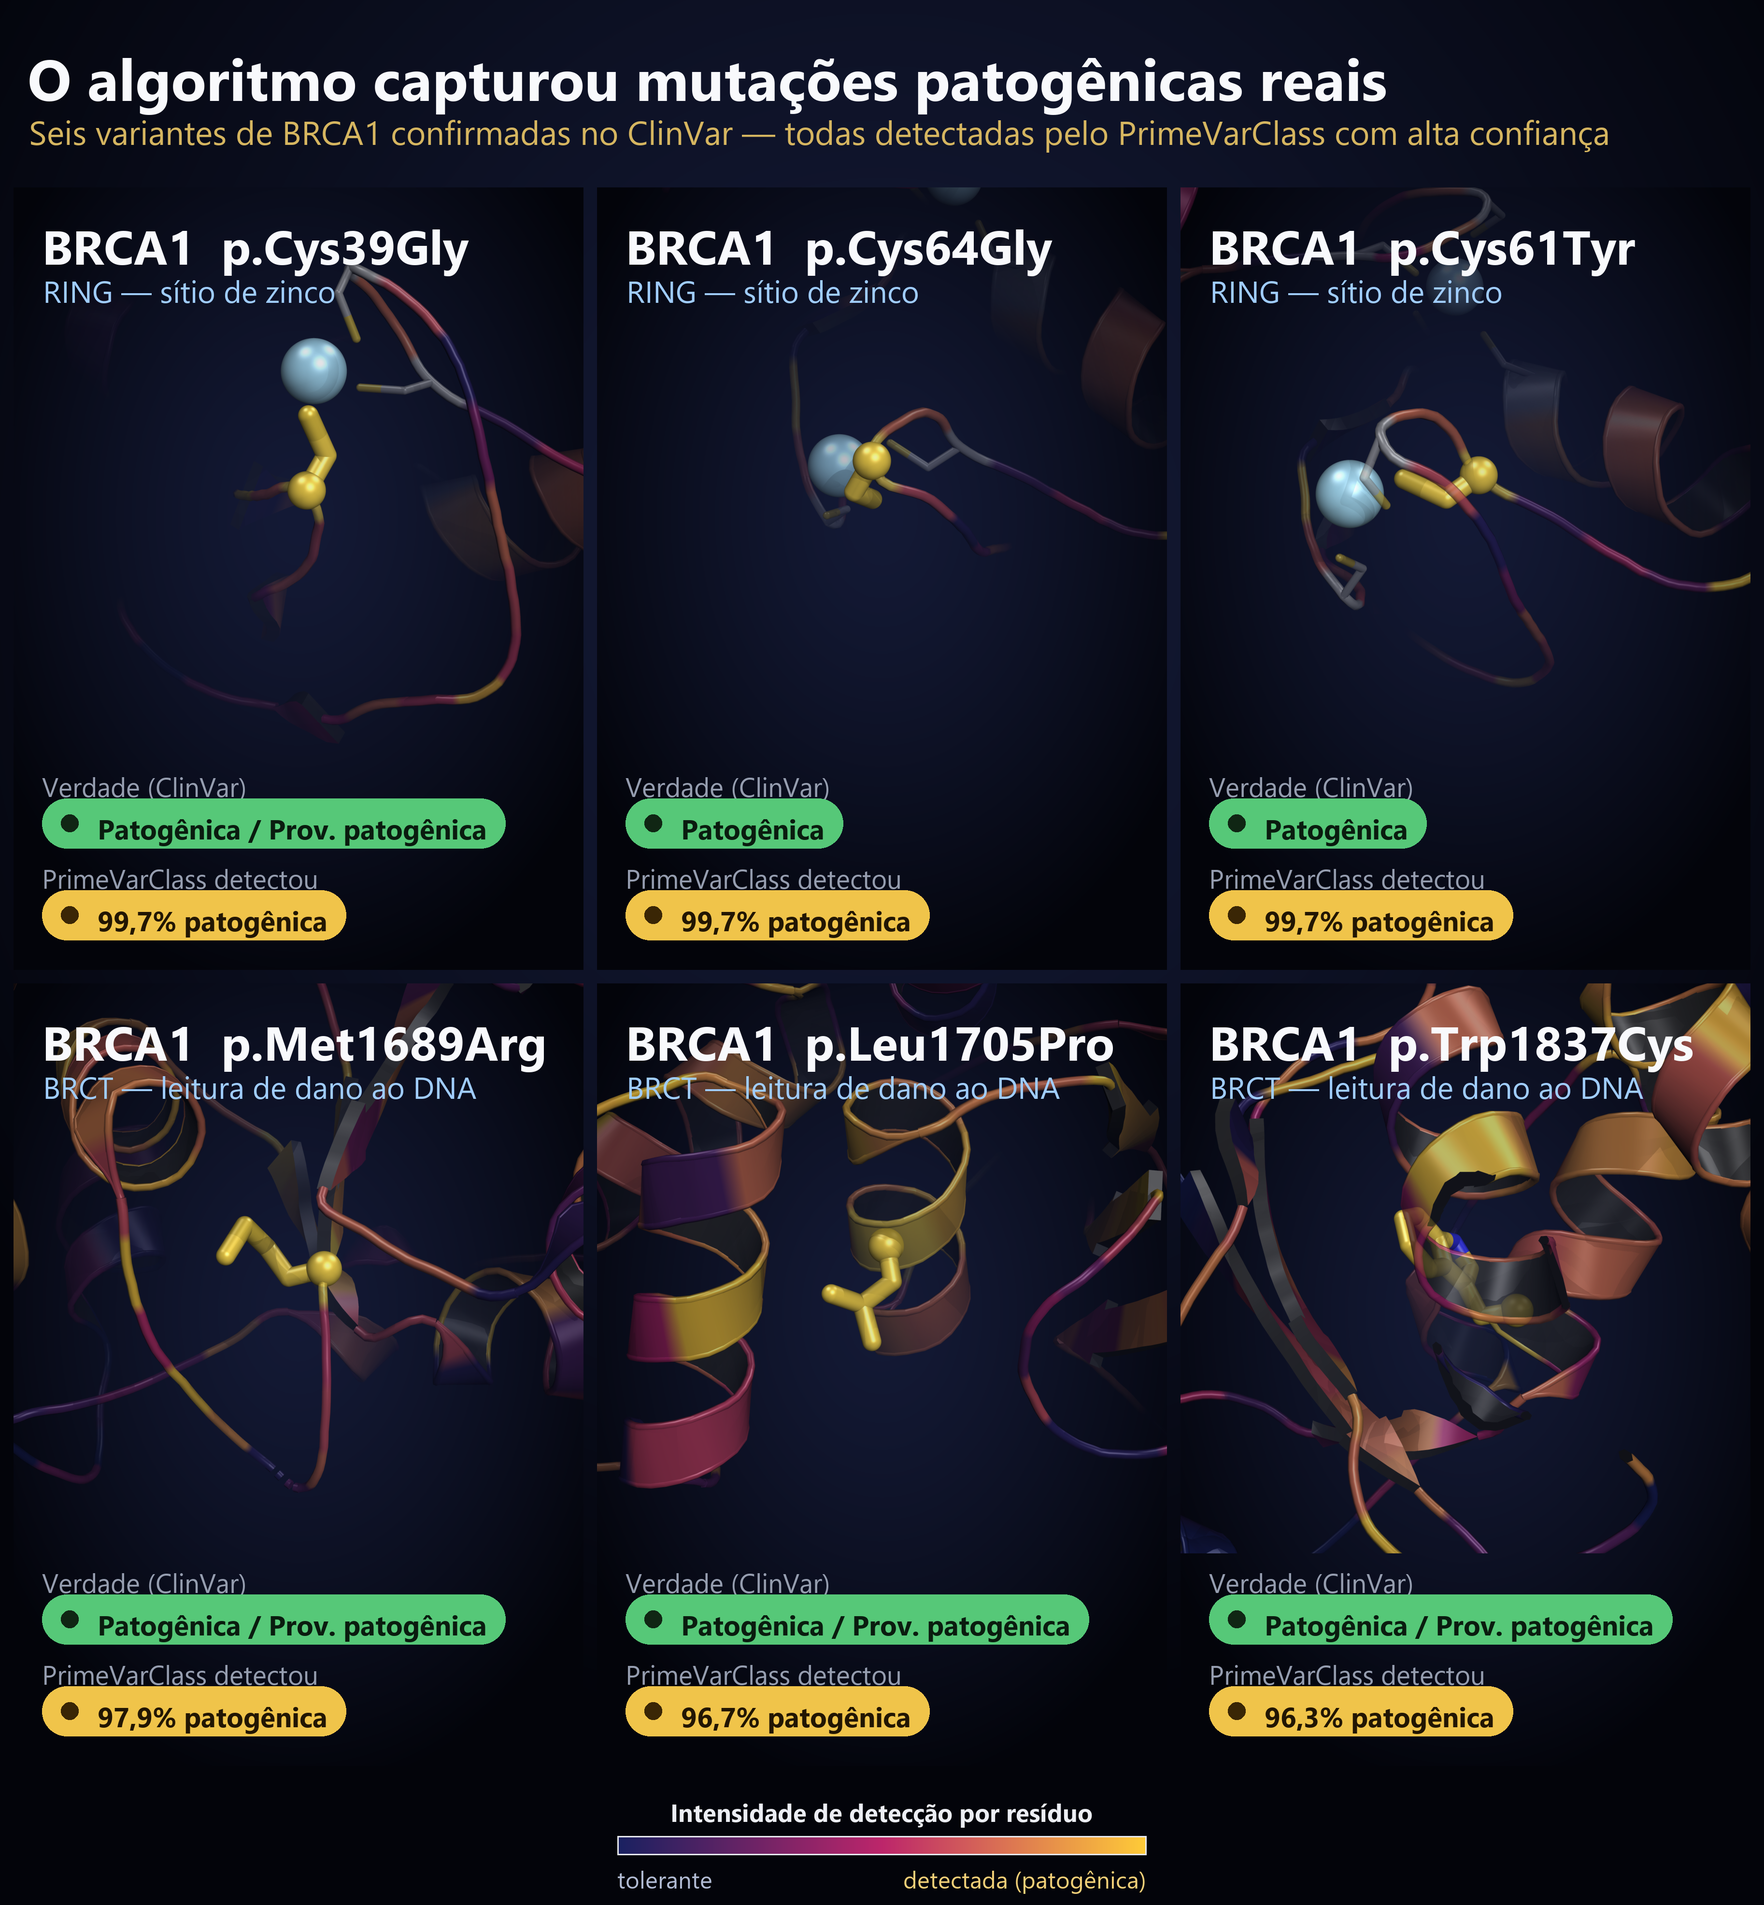
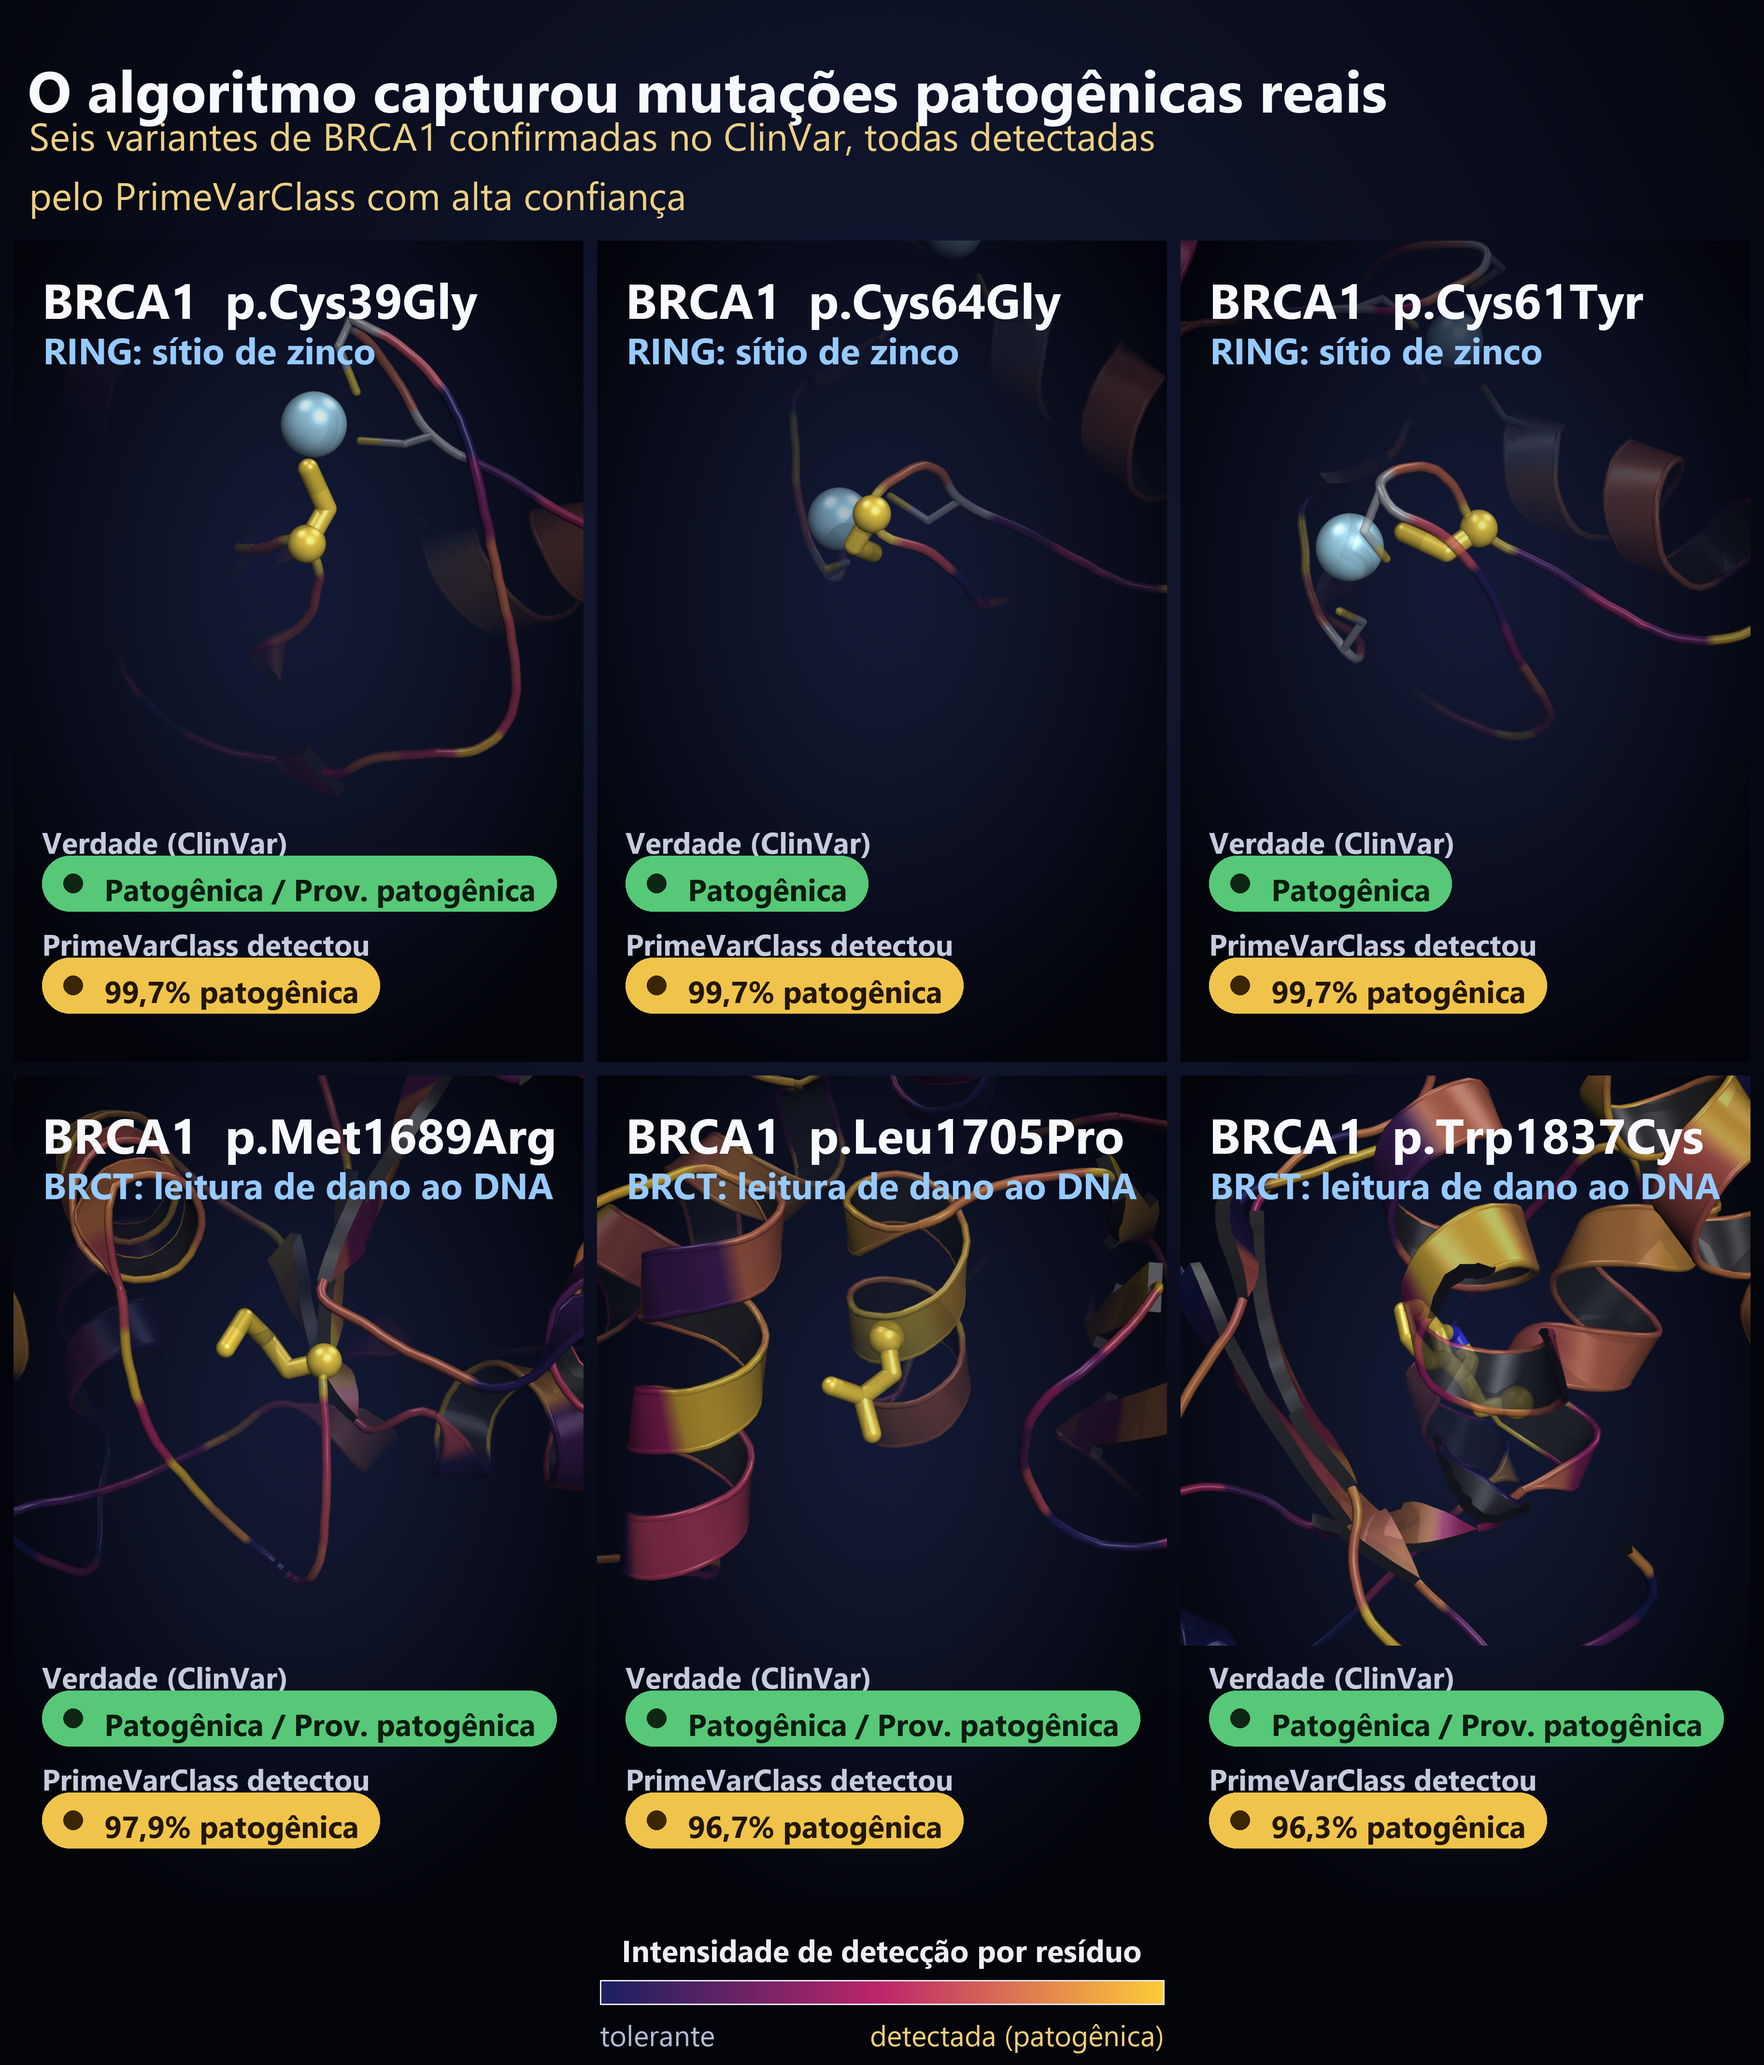
style(figura3): rotulos maiores e legiveis no painel de seis variantes
Os rotulos secundarios (subtitulo de dominio, "Verdade (ClinVar)",
"PrimeVarClass detectou" e a legenda de cor) estavam pequenos e de baixo
contraste, ilegiveis em zoom de 100%. Aumenta essas fontes, escurece menos os
rotulos cinzas (mais contraste) e engrossa o subtitulo de dominio. A faixa de
rotulos de cada tile foi ampliada (strip 440 -> 520) para acomodar as fontes
maiores sem estourar os badges, e o subtitulo do topo passou a duas linhas
para nao vazar pela borda direita. Remove dois travessoes que iam para dentro
da imagem (subtitulos de dominio e cabecalho).

Recomposto a partir dos renders PyMOL ja existentes; nenhum numero alterado.

diff --git a/scratch/compose_detected_panel.py b/scratch/compose_detected_panel.py
@@ -1,7 +1,7 @@
 """Assemble the six confirmed-pathogenic PyMOL panels into one marketing-quality
 figure: 'O algoritmo capturou mutações patogênicas reais'. Each tile carries a
-large variant name, its domain, and two badges — the real ClinVar verdict and the
-PrimeVarClass call — so a judge sees, at a glance, that every hit is real.
+large variant name, its domain, and two badges (the real ClinVar verdict and the
+PrimeVarClass call), so a judge sees, at a glance, that every hit is real.
 
 Run: python scratch/compose_detected_panel.py
 """
@@ -18,17 +18,17 @@ OUTS = ["docs/galeria_resultados/figuras", "docs/suplementar/figuras",
 RAMP = [(0.10, 0.13, 0.38), (0.74, 0.15, 0.42), (1.00, 0.80, 0.22)]
 
 TILES = [
-    dict(name="C39G", title="BRCA1  p.Cys39Gly", dom="RING — sítio de zinco",
+    dict(name="C39G", title="BRCA1  p.Cys39Gly", dom="RING: sítio de zinco",
          clin="Patogênica / Prov. patogênica", prob="99,7%"),
-    dict(name="C64G", title="BRCA1  p.Cys64Gly", dom="RING — sítio de zinco",
+    dict(name="C64G", title="BRCA1  p.Cys64Gly", dom="RING: sítio de zinco",
          clin="Patogênica", prob="99,7%"),
-    dict(name="C61Y", title="BRCA1  p.Cys61Tyr", dom="RING — sítio de zinco",
+    dict(name="C61Y", title="BRCA1  p.Cys61Tyr", dom="RING: sítio de zinco",
          clin="Patogênica", prob="99,7%"),
-    dict(name="M1689R", title="BRCA1  p.Met1689Arg", dom="BRCT — leitura de dano ao DNA",
+    dict(name="M1689R", title="BRCA1  p.Met1689Arg", dom="BRCT: leitura de dano ao DNA",
          clin="Patogênica / Prov. patogênica", prob="97,9%"),
-    dict(name="L1705P", title="BRCA1  p.Leu1705Pro", dom="BRCT — leitura de dano ao DNA",
+    dict(name="L1705P", title="BRCA1  p.Leu1705Pro", dom="BRCT: leitura de dano ao DNA",
          clin="Patogênica / Prov. patogênica", prob="96,7%"),
-    dict(name="W1837C", title="BRCA1  p.Trp1837Cys", dom="BRCT — leitura de dano ao DNA",
+    dict(name="W1837C", title="BRCA1  p.Trp1837Cys", dom="BRCT: leitura de dano ao DNA",
          clin="Patogênica / Prov. patogênica", prob="96,3%"),
 ]
 
@@ -88,20 +88,21 @@ def make_tile(t, tw, strip):
     x = int(tw * 0.05)
 
     # variant name (top-left of the render, on the dark sky)
-    d.text((x, int(tw * 0.045)), t["title"], font=font(int(tw * 0.084)),
+    d.text((x, int(tw * 0.045)), t["title"], font=font(int(tw * 0.086)),
            fill=(248, 249, 252))
-    d.text((x + 2, int(tw * 0.045) + int(tw * 0.100)), t["dom"],
-           font=font(int(tw * 0.054), bold=False), fill=(160, 205, 255))
+    d.text((x + 2, int(tw * 0.045) + int(tw * 0.104)), t["dom"],
+           font=font(int(tw * 0.064), bold=True), fill=(150, 202, 255))
 
-    # label strip (two stacked badges) — explicit pixel budget
-    fb = font(int(tw * 0.049), bold=True)          # verdict still fits (abbreviated)
-    fs = font(int(tw * 0.047), bold=False)
-    y = tw + int(strip * 0.05)
-    d.text((x, y), "Verdade (ClinVar)", font=fs, fill=(150, 158, 176))
+    # label strip (two stacked badges). Rotulos maiores e com mais contraste;
+    # o orcamento em pixels do strip foi ampliado (build) para nada estourar.
+    fb = font(int(tw * 0.054), bold=True)          # texto dentro dos badges
+    fs = font(int(tw * 0.052), bold=True)          # rotulos "Verdade"/"detectou"
+    y = tw + int(strip * 0.045)
+    d.text((x, y), "Verdade (ClinVar)", font=fs, fill=(196, 204, 222))
     _, h1 = pill(d, x, y + int(fs.size * 1.15), t["clin"], fb,
                  (10, 28, 15), (86, 200, 120), dot=(16, 38, 20))
-    y = y + int(fs.size * 1.15) + h1 + int(strip * 0.055)
-    d.text((x, y), "PrimeVarClass detectou", font=fs, fill=(150, 158, 176))
+    y = y + int(fs.size * 1.15) + h1 + int(strip * 0.05)
+    d.text((x, y), "PrimeVarClass detectou", font=fs, fill=(196, 204, 222))
     pill(d, x, y + int(fs.size * 1.15), f"{t['prob']} patogênica", fb,
          (34, 22, 3), (240, 196, 74), dot=(58, 38, 5))
     return tile.convert("RGB")
@@ -121,10 +122,10 @@ def legend(draw, x, y, w, h, big):
 
 
 def build():
-    tw, strip, gap = 1180, 440, 28
+    tw, strip, gap = 1180, 520, 28
     cols, rows = 3, 2
-    band = 360                                   # top title band
-    botband = 260                                # bottom legend band
+    band = 470                                   # top title band (2 linhas de subtitulo)
+    botband = 320                                # bottom legend band
     W = cols * tw + (cols + 1) * gap
     H = band + rows * (tw + strip) + (rows + 1) * gap + botband
 
@@ -133,10 +134,10 @@ def build():
     d.text((gap + int(W * 0.008), int(band * 0.22)),
            "O algoritmo capturou mutações patogênicas reais",
            font=font(int(W * 0.033)), fill=(248, 249, 252))
-    d.text((gap + int(W * 0.009), int(band * 0.22) + int(W * 0.040)),
-           "Seis variantes de BRCA1 confirmadas no ClinVar — todas detectadas pelo "
-           "PrimeVarClass com alta confiança",
-           font=font(int(W * 0.019), bold=False), fill=(214, 182, 96))
+    d.text((gap + int(W * 0.009), int(band * 0.20) + int(W * 0.036)),
+           "Seis variantes de BRCA1 confirmadas no ClinVar, todas detectadas\n"
+           "pelo PrimeVarClass com alta confiança",
+           font=font(int(W * 0.022), bold=False), fill=(236, 208, 132), spacing=int(W * 0.010))
 
     for i, t in enumerate(TILES):
         r, c = divmod(i, cols)
@@ -145,8 +146,8 @@ def build():
         canvas.paste(make_tile(t, tw, strip), (x, y))
 
     # large centred colour legend at the bottom (was tiny in the title band)
-    lw, lh = int(W * 0.30), int(botband * 0.15)
-    legend(d, (W - lw) // 2, H - botband + int(botband * 0.45), lw, lh, int(W * 0.0135))
+    lw, lh = int(W * 0.32), int(botband * 0.16)
+    legend(d, (W - lw) // 2, H - botband + int(botband * 0.45), lw, lh, int(W * 0.0165))
 
     for out in OUTS:
         os.makedirs(out, exist_ok=True)
